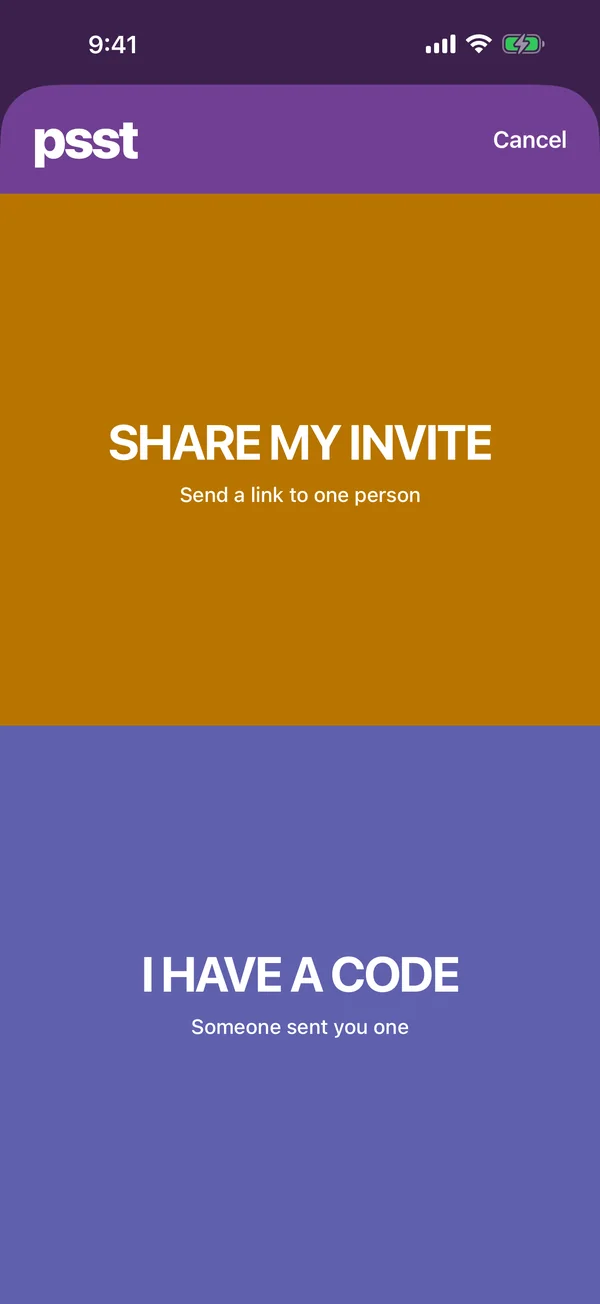
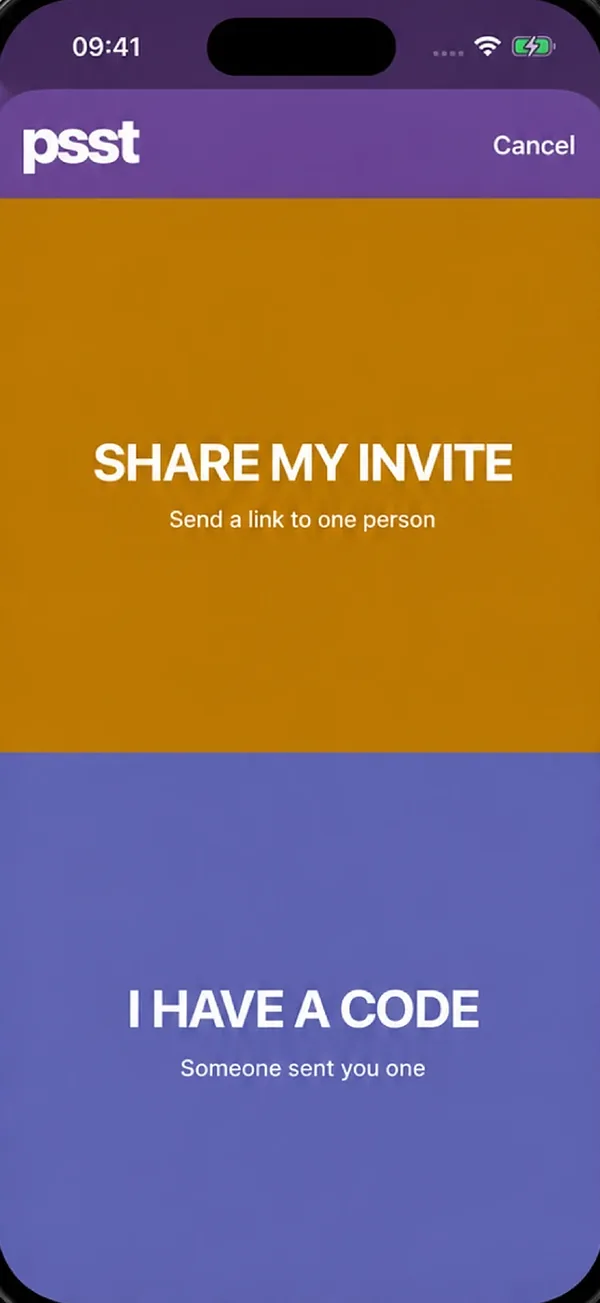
Site: App Store link, live listing name, screens with the store's names
- "Coming soon" becomes "Get it on the App Store" (apps.apple.com/app/id6815764359),
  on the landing and invite pages.
- The live listing is "Psst – Tap a Friend"; titles, legal pages and docs follow.
- Phone images now show the App Store screens (Zoe, Mia, Ava) instead of the
  old demo names; the Kim welcome screen is replaced by Mia's arriving Psst.

diff --git a/site/index.html b/site/index.html
@@ -2,14 +2,14 @@
 <html lang="en"><head><meta charset="utf-8"><meta name="viewport" content="width=device-width, initial-scale=1">
 <meta name="description" content="Tap your person. They psst you back. A tiny one-tap app for the people you are close to.">
 <meta name="theme-color" content="#713F93">
-<meta property="og:title" content="Psst Back">
+<meta property="og:title" content="Psst – Tap a Friend">
 <meta property="og:description" content="Miss them? Psst them. One tap says: thinking of you.">
 <meta property="og:image" content="https://psstapp.fun/img/home.webp">
 <link rel="icon" href="/favicon.ico" sizes="48x48">
 <link rel="icon" type="image/png" sizes="32x32" href="/favicon-32.png">
 <link rel="apple-touch-icon" href="/apple-touch-icon.png">
 <link rel="manifest" href="/site.webmanifest">
-<title>Psst Back</title>
+<title>Psst – Tap a Friend</title>
 <link rel="preload" href="/fonts/InterTight-Black.woff2" as="font" type="font/woff2" crossorigin>
 <link rel="stylesheet" href="/style.css">
 </head>
@@ -24,9 +24,9 @@
   <div class="hero-copy">
     <h1>Miss them?<br><span class="mark pink">Psst</span> them.</h1>
     <p class="lede">One tap says <em>thinking of you</em>. They feel a little whisper, and psst you back. No typing. No feed. Just your people.</p>
-    <p class="cta"><span class="soon">Coming soon on iPhone</span></p>
+    <p class="cta"><a class="soon" href="https://apps.apple.com/app/id6815764359">Get it on the App Store</a></p>
   </div>
-  <div class="phone tilt-r"><img src="/img/home.webp" alt="Psst home screen: a colour band for each person, Zoe, Mia and Ava, with a gold plus band to invite someone." width="600" height="1304"></div>
+  <div class="phone tilt-r"><img src="/img/home.webp" alt="Psst home screen: a colour band for each person, Zoe, Mia and Ava, with a gold plus band to invite someone." width="600" height="1290"></div>
 </section>
 
 <section class="bands" id="how">
@@ -36,11 +36,11 @@
       <h2>No text.<br><span class="mark yellow">Still close.</span></h2>
       <p>Everyone you love is a big colour band. Tap one and they get a whispered “psst”. That's the whole thing, on purpose.</p>
     </div>
-    <div class="phone tilt-l"><img src="/img/home.webp" alt="" width="600" height="1304" loading="lazy"></div>
+    <div class="phone tilt-l"><img src="/img/home.webp" alt="" width="600" height="1290" loading="lazy"></div>
   </div>
 
   <div class="band band-yellow">
-    <div class="phone tilt-r"><img src="/img/same-moment.webp" alt="The same-moment screen: YOU above, MIA below, with SAME MOMENT across the middle." width="600" height="1304" loading="lazy"></div>
+    <div class="phone tilt-r"><img src="/img/same-moment.webp" alt="The same-moment screen: YOU above, MIA below, with SAME MOMENT across the middle." width="600" height="1294" loading="lazy"></div>
     <div class="band-copy">
       <p class="kicker">02 · Same moment</p>
       <h2>You were both<br><span class="mark pink">thinking it.</span></h2>
@@ -54,11 +54,11 @@
       <h2>Start an<br><span class="mark yellow">inside joke.</span></h2>
       <p>Send one person a link. Nothing happens until you've both said yes. No contacts upload, no strangers, no public anything.</p>
     </div>
-    <div class="phone tilt-l"><img src="/img/invite.webp" alt="The invite screen with two bands: Share my invite, and I have a code." width="600" height="1304" loading="lazy"></div>
+    <div class="phone tilt-l"><img src="/img/invite.webp" alt="The invite screen with two bands: Share my invite, and I have a code." width="600" height="1303" loading="lazy"></div>
   </div>
 
   <div class="band band-green">
-    <div class="phone tilt-r"><img src="/img/welcome.webp" alt="The welcome screen: LILY IS IN, tap to send your first Psst." width="600" height="1304" loading="lazy"></div>
+    <div class="phone tilt-r"><img src="/img/arrival.webp" alt="A Psst arriving: FROM MIA, Psst!, tap to psst back." width="600" height="1285" loading="lazy"></div>
     <div class="band-copy">
       <p class="kicker">04 · Psst back</p>
       <h2>A little hello.<br><span class="mark yellow">A tap right back.</span></h2>

diff --git a/site/privacy.html b/site/privacy.html
@@ -1,20 +1,20 @@
 <!doctype html>
 <html lang="en"><head><meta charset="utf-8"><meta name="viewport" content="width=device-width, initial-scale=1">
-<meta name="description" content="What Psst Back stores, what it never collects, and how to delete your account.">
+<meta name="description" content="What Psst stores, what it never collects, and how to delete your account.">
 <meta name="theme-color" content="#713F93">
-<meta property="og:title" content="Psst Back">
-<meta property="og:description" content="What Psst Back stores, what it never collects, and how to delete your account.">
+<meta property="og:title" content="Psst – Tap a Friend">
+<meta property="og:description" content="What Psst stores, what it never collects, and how to delete your account.">
 <link rel="icon" href="/favicon.ico" sizes="48x48">
 <link rel="icon" type="image/png" sizes="32x32" href="/favicon-32.png">
 <link rel="apple-touch-icon" href="/apple-touch-icon.png">
 <link rel="manifest" href="/site.webmanifest">
-<title>Psst Back privacy policy</title><link rel="preload" href="/fonts/InterTight-Black.woff2" as="font" type="font/woff2" crossorigin>
+<title>Psst privacy policy</title><link rel="preload" href="/fonts/InterTight-Black.woff2" as="font" type="font/woff2" crossorigin>
 <link rel="stylesheet" href="/style.css"></head>
 <body>
 <header><a href="/">psst</a><nav><a href="/privacy">Privacy</a><a href="/terms">Terms</a><a href="/support">Support</a></nav></header>
 <main>
 <h1>Privacy policy</h1>
-<p class="muted">Psst Back (“Psst”) · Effective 25 September 2026</p>
+<p class="muted">Psst – Tap a Friend (“Psst”) · Effective 25 September 2026</p>
 
 <p>Psst keeps only what it needs to pass a Psst between two people who have both agreed to connect. There are no ads, no tracking, no analytics tools and no third-party code in the app. We don't sell or share your data.</p>
 
@@ -70,6 +70,6 @@
 <h2>Changes and contact</h2>
 <p>If this policy changes, we'll update this page and its date. Questions or requests: <a href="mailto:support@psstapp.fun">support@psstapp.fun</a>.</p>
 
-<footer>Psst Back · <a href="/terms">Terms of use</a> · <a href="/support">Support</a></footer>
+<footer>Psst · <a href="/terms">Terms of use</a> · <a href="/support">Support</a></footer>
 </main>
 </body></html>

diff --git a/site/terms.html b/site/terms.html
@@ -1,20 +1,20 @@
 <!doctype html>
 <html lang="en"><head><meta charset="utf-8"><meta name="viewport" content="width=device-width, initial-scale=1">
-<meta name="description" content="The terms for using Psst Back and Psst+.">
+<meta name="description" content="The terms for using Psst and Psst+.">
 <meta name="theme-color" content="#713F93">
-<meta property="og:title" content="Psst Back">
-<meta property="og:description" content="The terms for using Psst Back and Psst+.">
+<meta property="og:title" content="Psst – Tap a Friend">
+<meta property="og:description" content="The terms for using Psst and Psst+.">
 <link rel="icon" href="/favicon.ico" sizes="48x48">
 <link rel="icon" type="image/png" sizes="32x32" href="/favicon-32.png">
 <link rel="apple-touch-icon" href="/apple-touch-icon.png">
 <link rel="manifest" href="/site.webmanifest">
-<title>Psst Back terms of use</title><link rel="preload" href="/fonts/InterTight-Black.woff2" as="font" type="font/woff2" crossorigin>
+<title>Psst terms of use</title><link rel="preload" href="/fonts/InterTight-Black.woff2" as="font" type="font/woff2" crossorigin>
 <link rel="stylesheet" href="/style.css"></head>
 <body>
 <header><a href="/">psst</a><nav><a href="/privacy">Privacy</a><a href="/terms">Terms</a><a href="/support">Support</a></nav></header>
 <main>
 <h1>Terms of use</h1>
-<p class="muted">Psst Back (“Psst”) · Effective 25 September 2026</p>
+<p class="muted">Psst – Tap a Friend (“Psst”) · Effective 25 September 2026</p>
 
 <p>By using Psst you agree to these terms and to our <a href="/privacy">privacy policy</a>. Apple's <a href="https://www.apple.com/legal/internet-services/itunes/dev/stdeula/">Licensed Application End User License Agreement</a> also applies to the app. Where the two differ, these terms apply to our service, and Apple's agreement applies to the app licence.</p>
 
@@ -42,6 +42,6 @@
 <h2>Contact</h2>
 <p>Questions: <a href="mailto:support@psstapp.fun">support@psstapp.fun</a>.</p>
 
-<footer>Psst Back · <a href="/privacy">Privacy policy</a> · <a href="/support">Support</a></footer>
+<footer>Psst · <a href="/privacy">Privacy policy</a> · <a href="/support">Support</a></footer>
 </main>
 </body></html>

diff --git a/site/invite.html b/site/invite.html
@@ -1,9 +1,9 @@
 <!doctype html>
 <html lang="en"><head><meta charset="utf-8"><meta name="viewport" content="width=device-width, initial-scale=1">
-<meta name="description" content="Someone wants to psst you. Get Psst Back and connect with one code.">
+<meta name="description" content="Someone wants to psst you. Get Psst and connect with one code.">
 <meta name="theme-color" content="#AC3E68">
 <meta property="og:title" content="Someone wants to psst you">
-<meta property="og:description" content="Tap to connect on Psst Back: one tap says thinking of you.">
+<meta property="og:description" content="Tap to connect on Psst: one tap says thinking of you.">
 <meta property="og:image" content="https://psstapp.fun/img/home.webp">
 <link rel="icon" href="/favicon.ico" sizes="48x48">
 <link rel="apple-touch-icon" href="/apple-touch-icon.png">
@@ -29,7 +29,7 @@
 <main>
   <a class="wordmark" href="/">psst</a>
   <h1>Someone wants to psst you.</h1>
-  <p>Psst Back is a tiny app for the people you're close to: one tap says <em>thinking of you</em>, and they can psst you back.</p>
+  <p>Psst is a tiny app for the people you're close to: one tap says <em>thinking of you</em>, and they can psst you back.</p>
 
   <span class="code" id="code">········</span>
   <button class="copy" id="copy" type="button">Copy code</button>
@@ -38,7 +38,7 @@
 
   <div class="steps">
     <ol>
-      <li>Get Psst Back on your iPhone. <span class="small">(Coming soon to the App Store.)</span></li>
+      <li><a href="https://apps.apple.com/app/id6815764359" style="color:#fff">Get Psst from the App Store</a> on your iPhone.</li>
       <li>Open this link again, or tap the gold <strong>+</strong> band → <strong>I have a code</strong> and enter the code above.</li>
       <li>Connect. Nothing is sent until you both say yes.</li>
     </ol>

diff --git a/site/support.html b/site/support.html
@@ -2,13 +2,13 @@
 <html lang="en"><head><meta charset="utf-8"><meta name="viewport" content="width=device-width, initial-scale=1">
 <meta name="description" content="Help with invites, notifications, blocking, Psst+ and account deletion.">
 <meta name="theme-color" content="#713F93">
-<meta property="og:title" content="Psst Back">
+<meta property="og:title" content="Psst – Tap a Friend">
 <meta property="og:description" content="Help with invites, notifications, blocking, Psst+ and account deletion.">
 <link rel="icon" href="/favicon.ico" sizes="48x48">
 <link rel="icon" type="image/png" sizes="32x32" href="/favicon-32.png">
 <link rel="apple-touch-icon" href="/apple-touch-icon.png">
 <link rel="manifest" href="/site.webmanifest">
-<title>Psst Back support</title><link rel="preload" href="/fonts/InterTight-Black.woff2" as="font" type="font/woff2" crossorigin>
+<title>Psst support</title><link rel="preload" href="/fonts/InterTight-Black.woff2" as="font" type="font/woff2" crossorigin>
 <link rel="stylesheet" href="/style.css"></head>
 <body>
 <header><a href="/">psst</a><nav><a href="/privacy">Privacy</a><a href="/terms">Terms</a><a href="/support">Support</a></nav></header>
@@ -42,6 +42,6 @@
   <dd>Settings → Delete account. It deletes your data from our server straight away. See the <a href="/privacy">privacy policy</a>.</dd>
 </dl>
 
-<footer>Psst Back · <a href="/privacy">Privacy policy</a> · <a href="/terms">Terms of use</a></footer>
+<footer>Psst · <a href="/privacy">Privacy policy</a> · <a href="/terms">Terms of use</a></footer>
 </main>
 </body></html>

diff --git a/site/style.css b/site/style.css
@@ -36,7 +36,7 @@ a { color: var(--purple); }
 .hero h1 { font: 900 clamp(52px, 8.4vw, 112px)/.95 var(--display); letter-spacing: -.045em; color: var(--purple); margin: 0 0 26px; text-wrap: balance; }
 .lede { font-size: clamp(19px, 2vw, 22px); font-weight: 600; color: var(--purple-deep); max-width: 30ch; margin: 0 0 30px; line-height: 1.45; }
 .lede em { font-style: normal; background: linear-gradient(transparent 60%, rgba(255, 217, 102, .8) 60%); }
-.soon { display: inline-block; background: var(--ink); color: #fff; font-weight: 800; font-size: 16px; padding: 14px 22px; border-radius: 14px; }
+.soon { display: inline-block; text-decoration: none; background: var(--ink); color: #fff; font-weight: 800; font-size: 16px; padding: 14px 22px; border-radius: 14px; }
 
 .phone { justify-self: center; width: min(320px, 78vw); padding: 11px; background: #111; border-radius: 52px; box-shadow: 0 30px 60px -20px rgba(36, 27, 43, .45), 0 0 0 2px #2a2a2a inset; }
 .phone img { border-radius: 42px; width: 100%; height: auto; }

diff --git a/docs/APP_REVIEW_NOTES.md b/docs/APP_REVIEW_NOTES.md
@@ -34,7 +34,7 @@ For a later submission, pick two new unused codes; each works once.
 ## Notes to paste (fill in the two codes)
 
 ```
-Psst Back lets two people who have both agreed to connect send each other a one-tap "Psst". There is no login: an anonymous account is created when you enter a name.
+Psst lets two people who have both agreed to connect send each other a one-tap "Psst". There is no login: an anonymous account is created when you enter a name.
 
 To try it with a real person (our team):
 1. Open the app, enter any name, and choose whether to allow notifications.
@@ -67,7 +67,7 @@ Recording alone? In the app, tap + → Share my invite and note the code. Then r
 Attach the video in App Store Connect under App Review Information → Attachment, then reply with:
 
 ```
-1. Purpose: Psst Back lets two people who have both agreed to connect send each other a one-tap "Psst" (thinking of you), and psst back in one tap. Audience: friends, family and couples. It has no feed, no chat, no strangers and no location.
+1. Purpose: Psst lets two people who have both agreed to connect send each other a one-tap "Psst" (thinking of you), and psst back in one tap. Audience: friends, family and couples. It has no feed, no chat, no strangers and no location.
 2. Setup: no login. An anonymous account is created when you enter a name. To connect with our team, use invite code PSSTTEAM (backup: PSSTBACK) via the gold + band → "I have a code". We psst back during review.
 3. External services: Supabase (database, anonymous auth, server functions), Apple Push Notification service, and StoreKit for the Psst+ purchase. The privacy, terms and support pages are hosted on Vercel at psstapp.fun. No AI, ads, tracking or analytics SDKs.
 4. Regional differences: none. The app is the same in every region.

diff --git a/CLAUDE.md b/CLAUDE.md
@@ -16,7 +16,7 @@ This repository contains only Psst, a native iPhone one-tap social app. Build th
 - First prototype: one person, four signals, and the receiving/replying experience.
 - Mobile app first, concise updates, careful token use, and exceptional execution without template clutter.
 
-“Psst” is the brand and home-screen name. The App Store listing is **Psst Back: Thinking of You** (owner pick, 25 Sep 2026), because “Psst” alone is taken. Spell it psst, never pst. The owner chose the original Yo as the visual reference after rejecting the cobalt-card design. Follow the revised colour-band direction in DESIGN.md. Paid pack prices remain hypotheses. No revenue or retention assumptions have been validated.
+“Psst” is the brand and home-screen name. The App Store listing is **Psst – Tap a Friend** (live, https://apps.apple.com/app/id6815764359), because “Psst” alone is taken. Spell it psst, never pst. The owner chose the original Yo as the visual reference after rejecting the cobalt-card design. Follow the revised colour-band direction in DESIGN.md. Paid pack prices remain hypotheses. No revenue or retention assumptions have been validated.
 
 ## Existing implementation
 Open `Psst.xcodeproj`. It is a native SwiftUI iPhone app, targeting iOS 17+, with no third-party packages. It runs in one of two modes:

diff --git a/docs/APP_STORE_DRAFT.md b/docs/APP_STORE_DRAFT.md
@@ -4,7 +4,7 @@ Draft for review. Grounded in the code as of 25 September 2026. Nothing here has
 
 ## Listing
 
-- **Name (store, 26 of 30 chars):** Psst Back: Thinking of You (owner pick, 25 Sep 2026; "Psst" alone is taken). The home-screen name stays "Psst".
+- **Name (store):** Psst – Tap a Friend (live: https://apps.apple.com/app/id6815764359; "Psst" alone is taken). The home-screen name stays "Psst".
 - **Subtitle (28 of 30 chars):** One tap. They psst you back.
 - **Before committing:** run a trademark search (USPTO, EUIPO) and register psstback.app / psstback.com if free. Domain checks were blocked from the build environment.
 - **Category:** Social Networking
